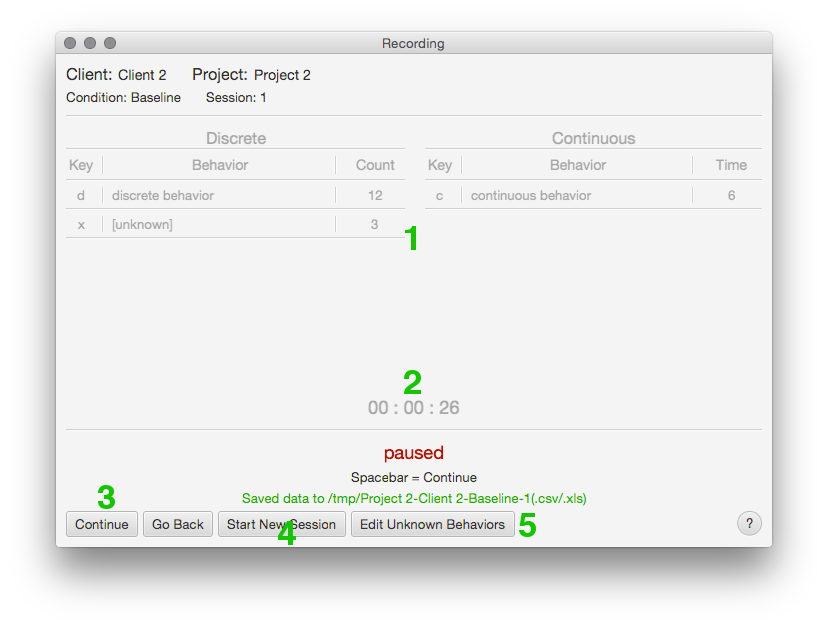
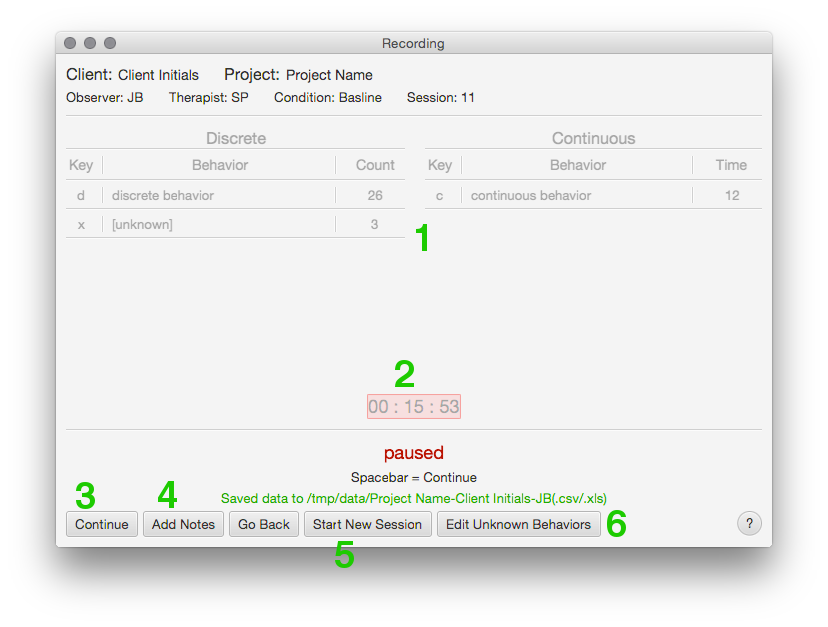
updated the manual to reflect all the recent changes

diff --git a/resources/manual/manual.html b/resources/manual/manual.html
@@ -3,8 +3,8 @@
 
 <h1>Introduction</h1>
 
-<p>The 3Bird Behavior Logger is a data collection tool for applied behavior analysis. 
-The interface was designed for researchers conducting treatment while one or more 
+<p>The 3Bird Behavior Logger is a data collection tool for applied behavior analysis.
+The interface was designed for researchers conducting treatment while one or more
 data-collectors record behaviors.</p>
 
 <hr />
@@ -41,8 +41,8 @@ Drag the icon over the Applications folder.</p>
 <li><strong>Schema List</strong> - A list of current schemas saved on your computer.</li>
 <li><strong>Create</strong> - Opens a new <a href="#edit-schema">Edit Schema</a> menu for creating a new schema.</li>
 <li><strong>Edit</strong> - Opens the selected schema into an <a href="#edit-schema">Edit Schema</a> menu.</li>
-<li><strong>Import</strong> - Allows the user to import a new schema by selecting a ".schema" file.</li>
 <li><strong>Export</strong> - Allows the user to export a schema into a ".schema" file, to be shared with other users.</li>
+<li><strong>Import</strong> - Allows the user to import a new schema by selecting a ".schema" file.</li>
 <li><strong>Preferences</strong> - Opens the <a href="#preferences">Preferences</a> menu for setting default schema values.</li>
 <li><strong>IOA Calculator</strong> - Opens the <a href="#ioa-calculator">IOA Calculator</a>.</li>
 <li><strong>Key-Behavior Mappings</strong> - A summary of the selected schema's key-behavior mappings.</li>
@@ -114,7 +114,8 @@ Drag the icon over the Applications folder.</p>
 <ol>
 <li><strong>Behavior Summary</strong> - Each row keeps track of the count/duration of each behavior.</li>
 <li><strong>Timer</strong> - The timer will increase while recording. If the current schema has a set duration and the timer reaches it, it performs the checked actions as specified in the <a href="#edit-schema">edit-schema menu</a>.</li>
-<li><strong>Start Session/Continue</strong> - When pressed, it will start the session timer. You can also press <code>spacebar</code> as a shortcut. You can only record behaviors while the timer is active.</li>
+<li><strong>Start Session/Continue</strong> - When pressed, it will start the session timer. You can also press <code>spacebar</code> as a shortcut (see <a href="keyboard-shortcuts">Keyboard Shortcuts</a>). You can only record behaviors while the timer is active.</li>
+<li><strong>Add Notes</strong> - Displays a window where you can attach notes to the session.</li>
 <li><strong>Start New Session</strong> - Starts a new session with the same schema and same session-detais. The session #, however, will increment.</li>
 <li><strong>Edit Uknown Behaviors</strong> - Becomes visible if you have logged an unknown behavior. When clicked, it opens a new menu for assigning values to unknown behaviors.</li>
 </ol>
@@ -140,12 +141,18 @@ Drag the icon over the Applications folder.</p>
 
 <h2>Undoing Behaviors</h2>
 
-<p>You can undo behaviors using <code>ctrl</code>+<code>z</code> for Windows and <code>cmd</code>+<code>z</code> for Macs. There is no "redo" funcationality yet.</p>
+<p>You can undo behaviors using <code>ctrl</code>+<code>z</code> for Windows and <code>cmd</code>+<code>z</code> for Macs (see <a href="#keyboard-shortcuts">Keyboard Shortcuts</a> for a full list of shortcuts). There is no "redo" funcationality yet.</p>
 
 <p><em>Undo</em> works differently depending on what the latest behavior was. <br />
 For discrete behaviors it simply removes the behavior and decrements the counter by 1. <br />
 For a continuous behavior that has been <em>started</em> but hasn't <em>ended</em>, it reverts the counter back to its position before it started. <br />
 For a continuous behavior that has ended, it decrements the counter by whatever the duration was.</p>
+
+<p><a name="notes"></a></p>
+
+<h2>Adding Notes to a Session</h2>
+
+<p>At any time, you can attach notes to a session. Open the Notes menu by pressing the "Add Notes" button or by using the keyboard shortcut <code>ctrl</code>+<code>n</code> for Windows or <code>cmd</code>+<code>n</code> for Mac (see <a href="#keyboard-shortcuts">Keyboard Shortcuts</a>). You can type anything into the text area and your notes will be automatically saved in the <a href="#session-output">session output</a> along with the session's data stream.</p>
 
 <p><a name="session-output"></a></p>
 
@@ -159,6 +166,27 @@ For a continuous behavior that has ended, it decrements the counter by whatever 
 </ul>
 
 <p>The names of these files can be configured in <a href="#preferences">Preferences</a>.</p>
+
+<p><a name="keyboard-shortcuts"></a></p>
+
+<h2>Keyboard Shortcuts</h2>
+
+<h3>Recording Menu</h3>
+
+<ul>
+<li><code>spacebar</code> - start/stop the session</li>
+<li><code>ctrl</code>+<code>z</code> / <code>cmd</code>+<code>z</code> - undo</li>
+<li><em>any unmapped key</em> - log an unknown discrete behavior</li>
+<li><code>shift</code>+<em>any unmapped key</em> - log an unknown continuous behavior</li>
+</ul>
+
+<h3>Session Notes</h3>
+
+<ul>
+<li><code>ctrl</code>+<code>n</code> / <code>cmd</code>+<code>n</code> - open Notes</li>
+<li><code>esc</code> - close Notes (if open)</li>
+<li><code>ctrl</code>+<code>t</code> / <code>cmd</code>+<code>t</code> - insert current session timestamp</li>
+</ul>
 
 <hr />
 
@@ -176,7 +204,13 @@ For a continuous behavior that has ended, it decrements the counter by whatever 
 <li><em>Block Size</em> - The number of seconds designated to each partition in partial/exact agreement.</li>
 <li><em>Threshold</em> - The number of seconds of leniency in time-window analysis.</li>
 </ul></li>
-<li><strong>Generate IOA File</strong> - Calculates IOA between File 1 and File 2 and prompts the user to save the result in an Excel file.</li>
+<li><strong>Save Options</strong>
+<ul>
+<li><em>New File</em> - Will prompt you to specify a file name and location and will create a new file (or overwrite an existing one)</li>
+<li><em>Append to Existing</em> - Requires you to enter a path to an existing Excel file. This option will append a new Excel Sheet to the existing workbook.</li>
+</ul></li>
+<li><strong>IOA Summary</strong> - After generating IOA results, this box displays the summary of IOA for each key.</li>
+<li><strong>Generate IOA File</strong> - Calculates IOA between File 1 and File 2 and, if <em>New File</em> is selected, prompts the user to save the result in an Excel file.</li>
 </ol>
 
 <hr />
@@ -185,7 +219,7 @@ For a continuous behavior that has ended, it decrements the counter by whatever 
 
 <h1>IOA Methods</h1>
 
-<p>Each method below details how to calculate a percent agreement for each behavior logged by two observers during a session. These methods were derived from two papers (see <a href="#references">References</a>). </p>
+<p>Each method below details how to calculate a percent agreement for each behavior logged by two observers during a session. These methods were derived from two papers (see <a href="#references">References</a>).</p>
 
 <p><a name="exact-aggrement"></a></p>
 

diff --git a/resources/manual/manual.md b/resources/manual/manual.md
@@ -2,8 +2,8 @@
 <a name="introduction"></a>
 # Introduction
 
-The 3Bird Behavior Logger is a data collection tool for applied behavior analysis. 
-The interface was designed for researchers conducting treatment while one or more 
+The 3Bird Behavior Logger is a data collection tool for applied behavior analysis.
+The interface was designed for researchers conducting treatment while one or more
 data-collectors record behaviors.
 
 ---
@@ -35,8 +35,8 @@ Drag the icon over the Applications folder.
 1. **Schema List** - A list of current schemas saved on your computer.
 2. **Create** - Opens a new [Edit Schema](#edit-schema) menu for creating a new schema.
 3. **Edit** - Opens the selected schema into an [Edit Schema](#edit-schema) menu.
-4. **Import** - Allows the user to import a new schema by selecting a ".schema" file.
-5. **Export** - Allows the user to export a schema into a ".schema" file, to be shared with other users.
+4. **Export** - Allows the user to export a schema into a ".schema" file, to be shared with other users.
+5. **Import** - Allows the user to import a new schema by selecting a ".schema" file.
 6. **Preferences** - Opens the [Preferences](#preferences) menu for setting default schema values.
 7. **IOA Calculator** - Opens the [IOA Calculator](#ioa-calculator).
 8. **Key-Behavior Mappings** - A summary of the selected schema's key-behavior mappings.
@@ -93,9 +93,10 @@ Drag the icon over the Applications folder.
 
 1. **Behavior Summary** - Each row keeps track of the count/duration of each behavior.
 2. **Timer** - The timer will increase while recording. If the current schema has a set duration and the timer reaches it, it performs the checked actions as specified in the [edit-schema menu](#edit-schema).
-3. **Start Session/Continue** - When pressed, it will start the session timer. You can also press `spacebar` as a shortcut. You can only record behaviors while the timer is active.
-4. **Start New Session** - Starts a new session with the same schema and same session-detais. The session #, however, will increment.
-5. **Edit Uknown Behaviors** - Becomes visible if you have logged an unknown behavior. When clicked, it opens a new menu for assigning values to unknown behaviors.
+3. **Start Session/Continue** - When pressed, it will start the session timer. You can also press `spacebar` as a shortcut (see [Keyboard Shortcuts](keyboard-shortcuts)). You can only record behaviors while the timer is active.
+4. **Add Notes** - Displays a window where you can attach notes to the session.
+5. **Start New Session** - Starts a new session with the same schema and same session-detais. The session #, however, will increment.
+6. **Edit Uknown Behaviors** - Becomes visible if you have logged an unknown behavior. When clicked, it opens a new menu for assigning values to unknown behaviors.
 
 <a name="logging-behaviors"></a>
 ## Logging Behaviors
@@ -114,12 +115,17 @@ When you pause the session, you can click *Edit Unknown Behaviors* to assign val
 <a name="undoing-behaviors"></a>
 ## Undoing Behaviors
 
-You can undo behaviors using `ctrl`+`z` for Windows and `cmd`+`z` for Macs. There is no "redo" funcationality yet.
+You can undo behaviors using `ctrl`+`z` for Windows and `cmd`+`z` for Macs (see [Keyboard Shortcuts](#keyboard-shortcuts) for a full list of shortcuts). There is no "redo" funcationality yet.
 
 *Undo* works differently depending on what the latest behavior was.  
 For discrete behaviors it simply removes the behavior and decrements the counter by 1.  
 For a continuous behavior that has been *started* but hasn't *ended*, it reverts the counter back to its position before it started.  
 For a continuous behavior that has ended, it decrements the counter by whatever the duration was.
+
+<a name="notes"></a>
+## Adding Notes to a Session
+
+At any time, you can attach notes to a session. Open the Notes menu by pressing the "Add Notes" button or by using the keyboard shortcut `ctrl`+`n` for Windows or `cmd`+`n` for Mac (see [Keyboard Shortcuts](#keyboard-shortcuts)). You can type anything into the text area and your notes will be automatically saved in the [session output](#session-output) along with the session's data stream.
 
 <a name="session-output"></a>
 ## Session Output
@@ -130,6 +136,20 @@ The app saves logged behaviors in the directory specified by the Schema (see [Ed
 - a *CSV* file meant for the [IOA Calculator](#ioa-calculator)
 
 The names of these files can be configured in [Preferences](#preferences).
+
+<a name="keyboard-shortcuts"></a>
+## Keyboard Shortcuts
+
+### Recording Menu
+- `spacebar` - start/stop the session
+- `ctrl`+`z` / `cmd`+`z` - undo
+- *any unmapped key* - log an unknown discrete behavior
+- `shift`+*any unmapped key* - log an unknown continuous behavior
+
+### Session Notes
+- `ctrl`+`n` / `cmd`+`n` - open Notes
+- `esc` - close Notes (if open)
+- `ctrl`+`t` / `cmd`+`t` - insert current session timestamp
 
 ---
 
@@ -143,14 +163,18 @@ The names of these files can be configured in [Preferences](#preferences).
 3. **Block Size/Threshold**
   - *Block Size* - The number of seconds designated to each partition in partial/exact agreement.
   - *Threshold* - The number of seconds of leniency in time-window analysis.
-4. **Generate IOA File** - Calculates IOA between File 1 and File 2 and prompts the user to save the result in an Excel file.
+4. **Save Options**
+  - *New File* - Will prompt you to specify a file name and location and will create a new file (or overwrite an existing one)
+  - *Append to Existing* - Requires you to enter a path to an existing Excel file. This option will append a new Excel Sheet to the existing workbook.
+5. **IOA Summary** - After generating IOA results, this box displays the summary of IOA for each key.
+6. **Generate IOA File** - Calculates IOA between File 1 and File 2 and, if *New File* is selected, prompts the user to save the result in an Excel file.
 
 ---
 
 <a name="ioa-methods"></a>
 # IOA Methods
 
-Each method below details how to calculate a percent agreement for each behavior logged by two observers during a session. These methods were derived from two papers (see [References](#references)). 
+Each method below details how to calculate a percent agreement for each behavior logged by two observers during a session. These methods were derived from two papers (see [References](#references)).
 
 <a name="exact-aggrement"></a>
 ## Exact Agreement
